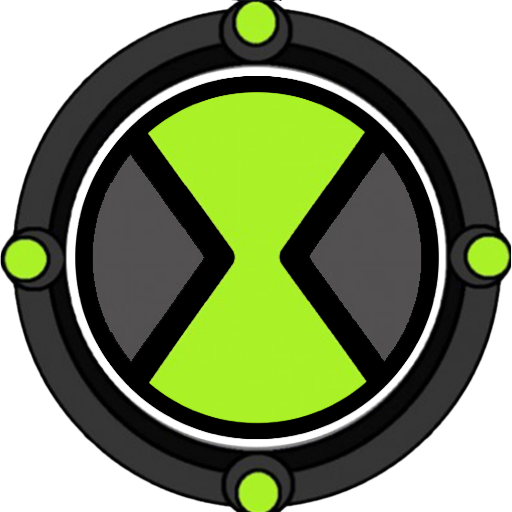
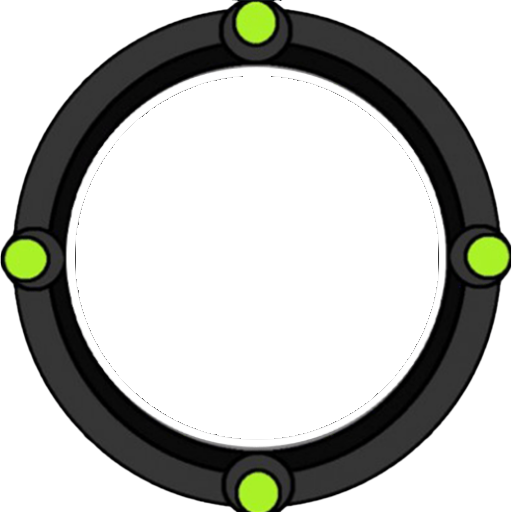
Adicionado argola mais fiel ao clássico.

diff --git a/style.css b/style.css
@@ -117,19 +117,6 @@ body{
 
 }
 
-
-#argola{
-
-    width: 360px;
-    height: 360px;
-    display: flex;
-    justify-content: center;
-    align-items: center;
-    border-radius: 100%;
-    background-color:#363636
-
-}
-
 .esferas{
 
     background-color: #0e0d0d;
@@ -162,5 +149,18 @@ body{
 #esfera04{
 
     margin-top: 329px;
+
+}
+
+#argola2{
+
+    height: 390px;
+    width: 390px;
+    display: flex;
+    justify-content: center;
+    align-items: center;
+    border-radius: 100%;
+    background-image: url(omnitrix.png);
+    background-size: cover;
 
 }

diff --git a/index.html b/index.html
@@ -9,7 +9,8 @@
   </head>
   <body>
     <div class="omnitrix">
-      <div id="argola">
+        <div id="argola2">
+        <div id="argola">
 
         <div id="esfera01" class="esferas">
 
@@ -49,6 +50,7 @@
         </div>
     </div>
       </div>
+    </div>
     </div>
   </body>
 </html>
